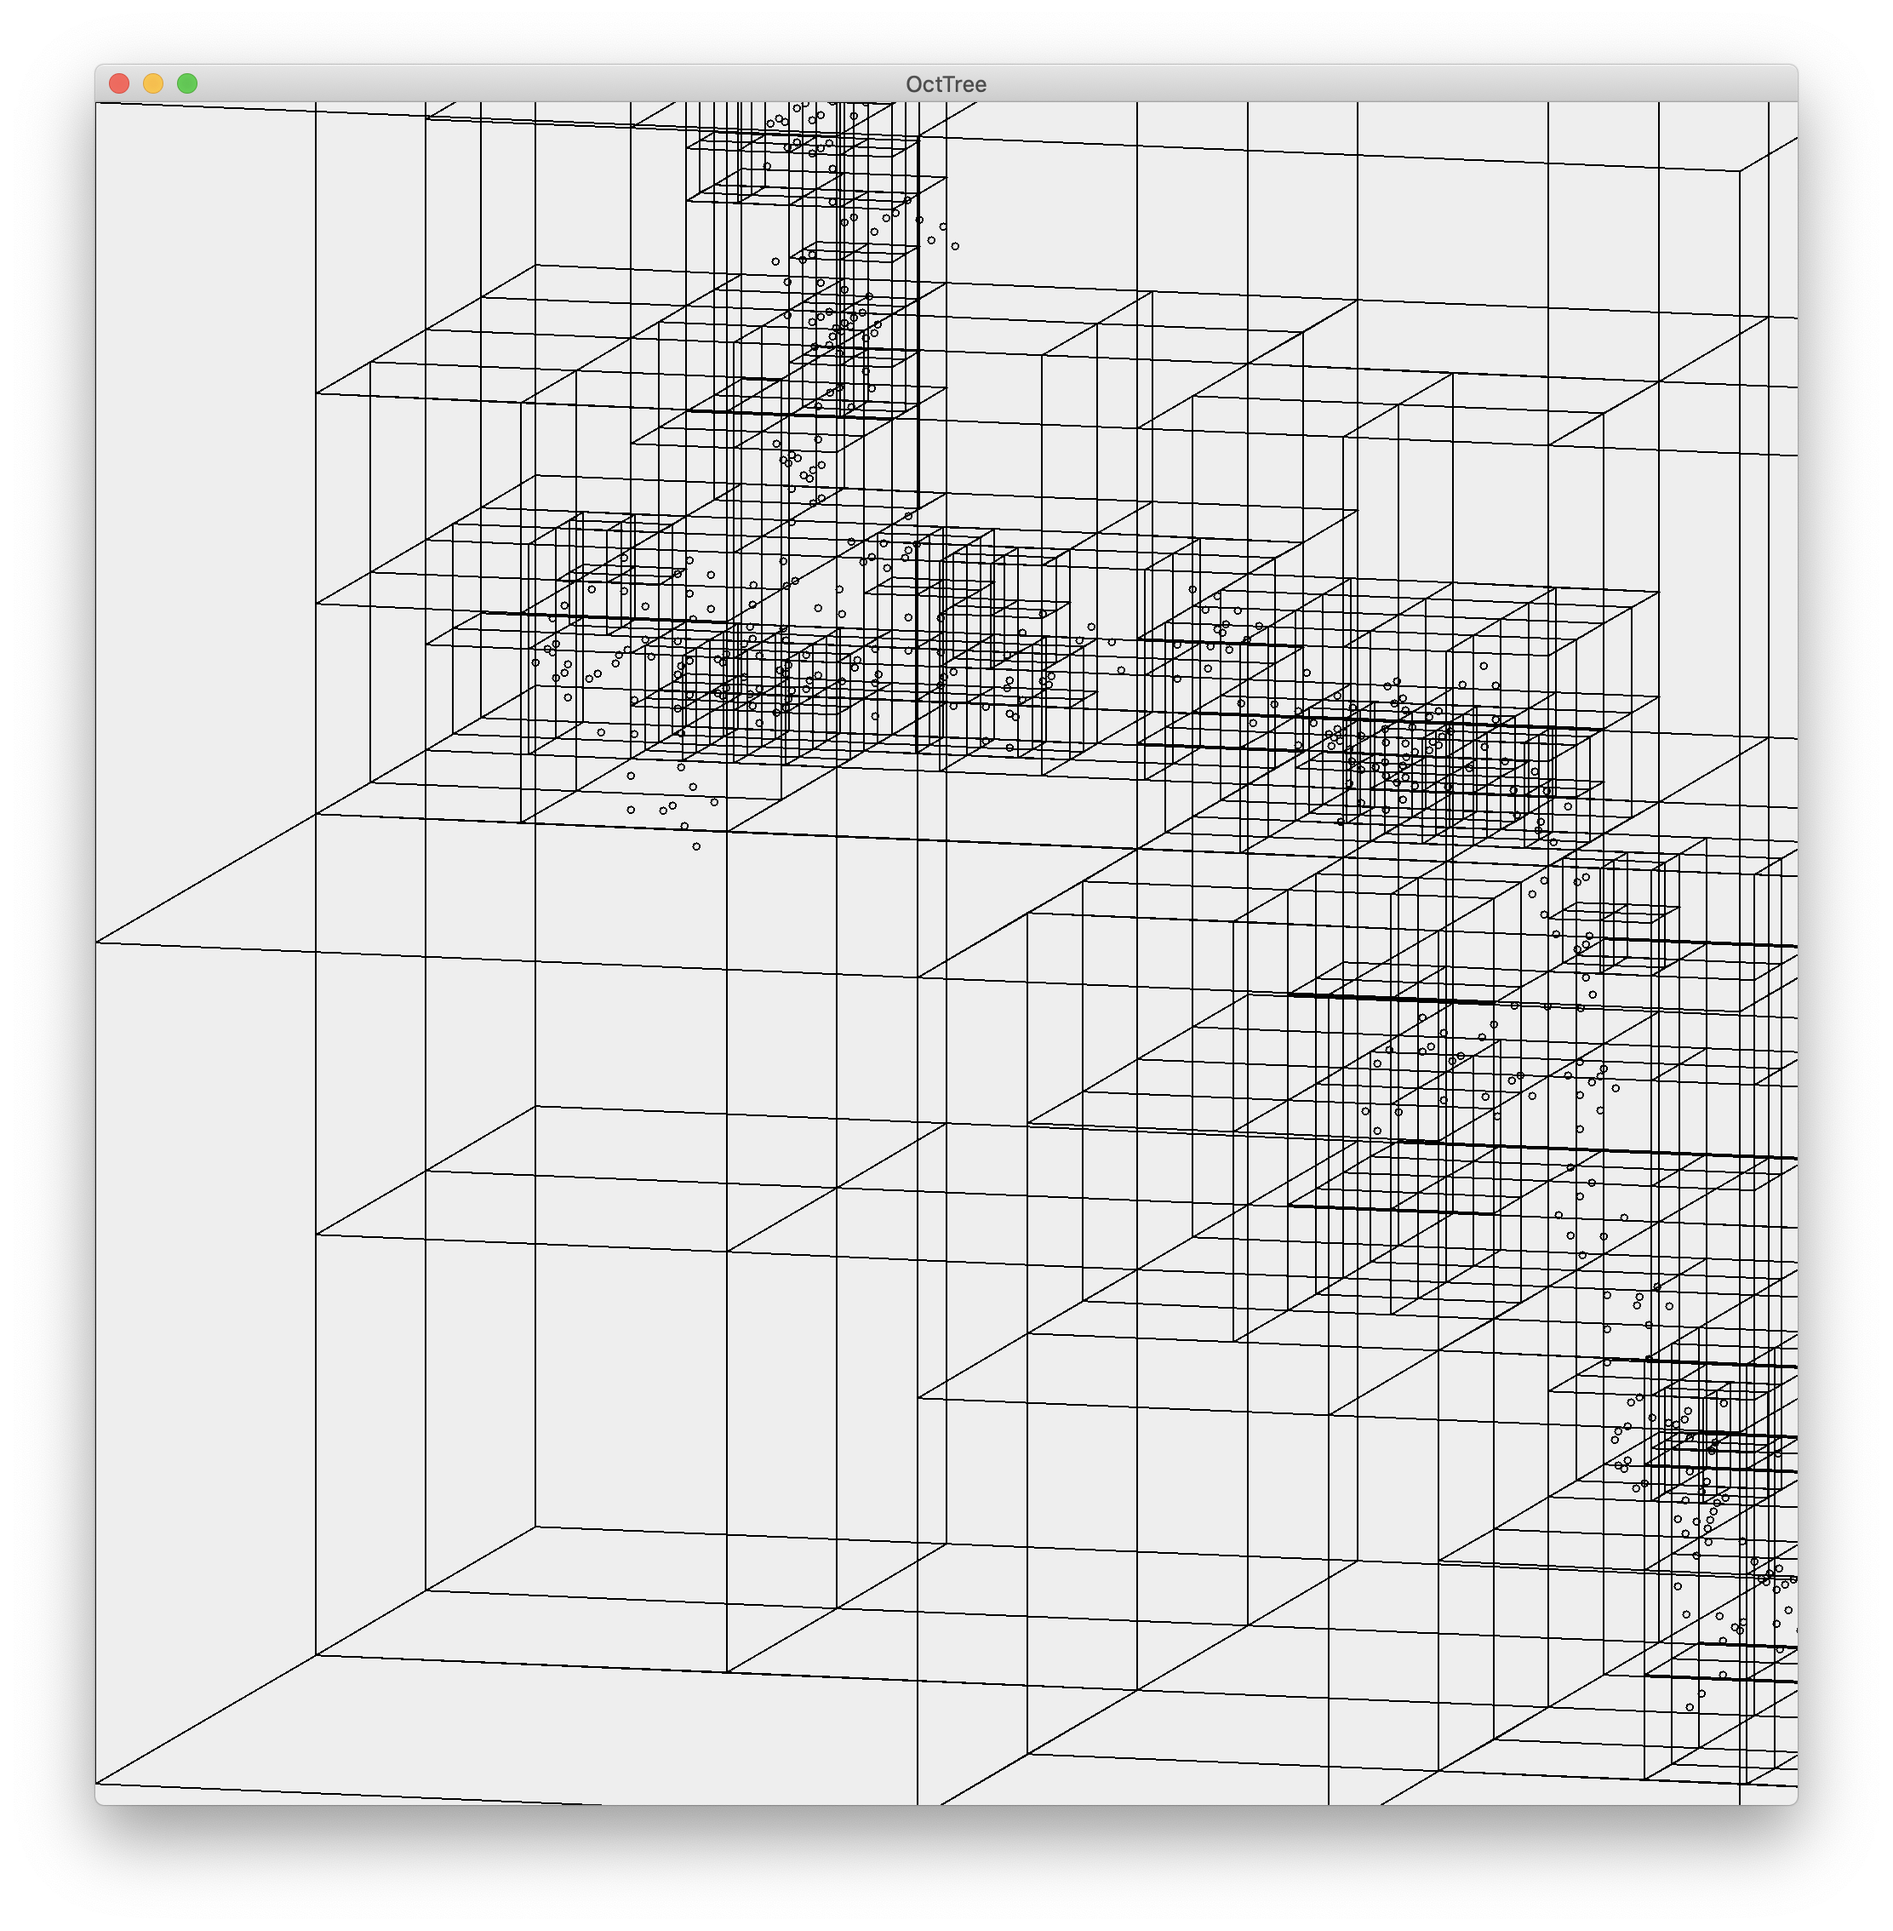
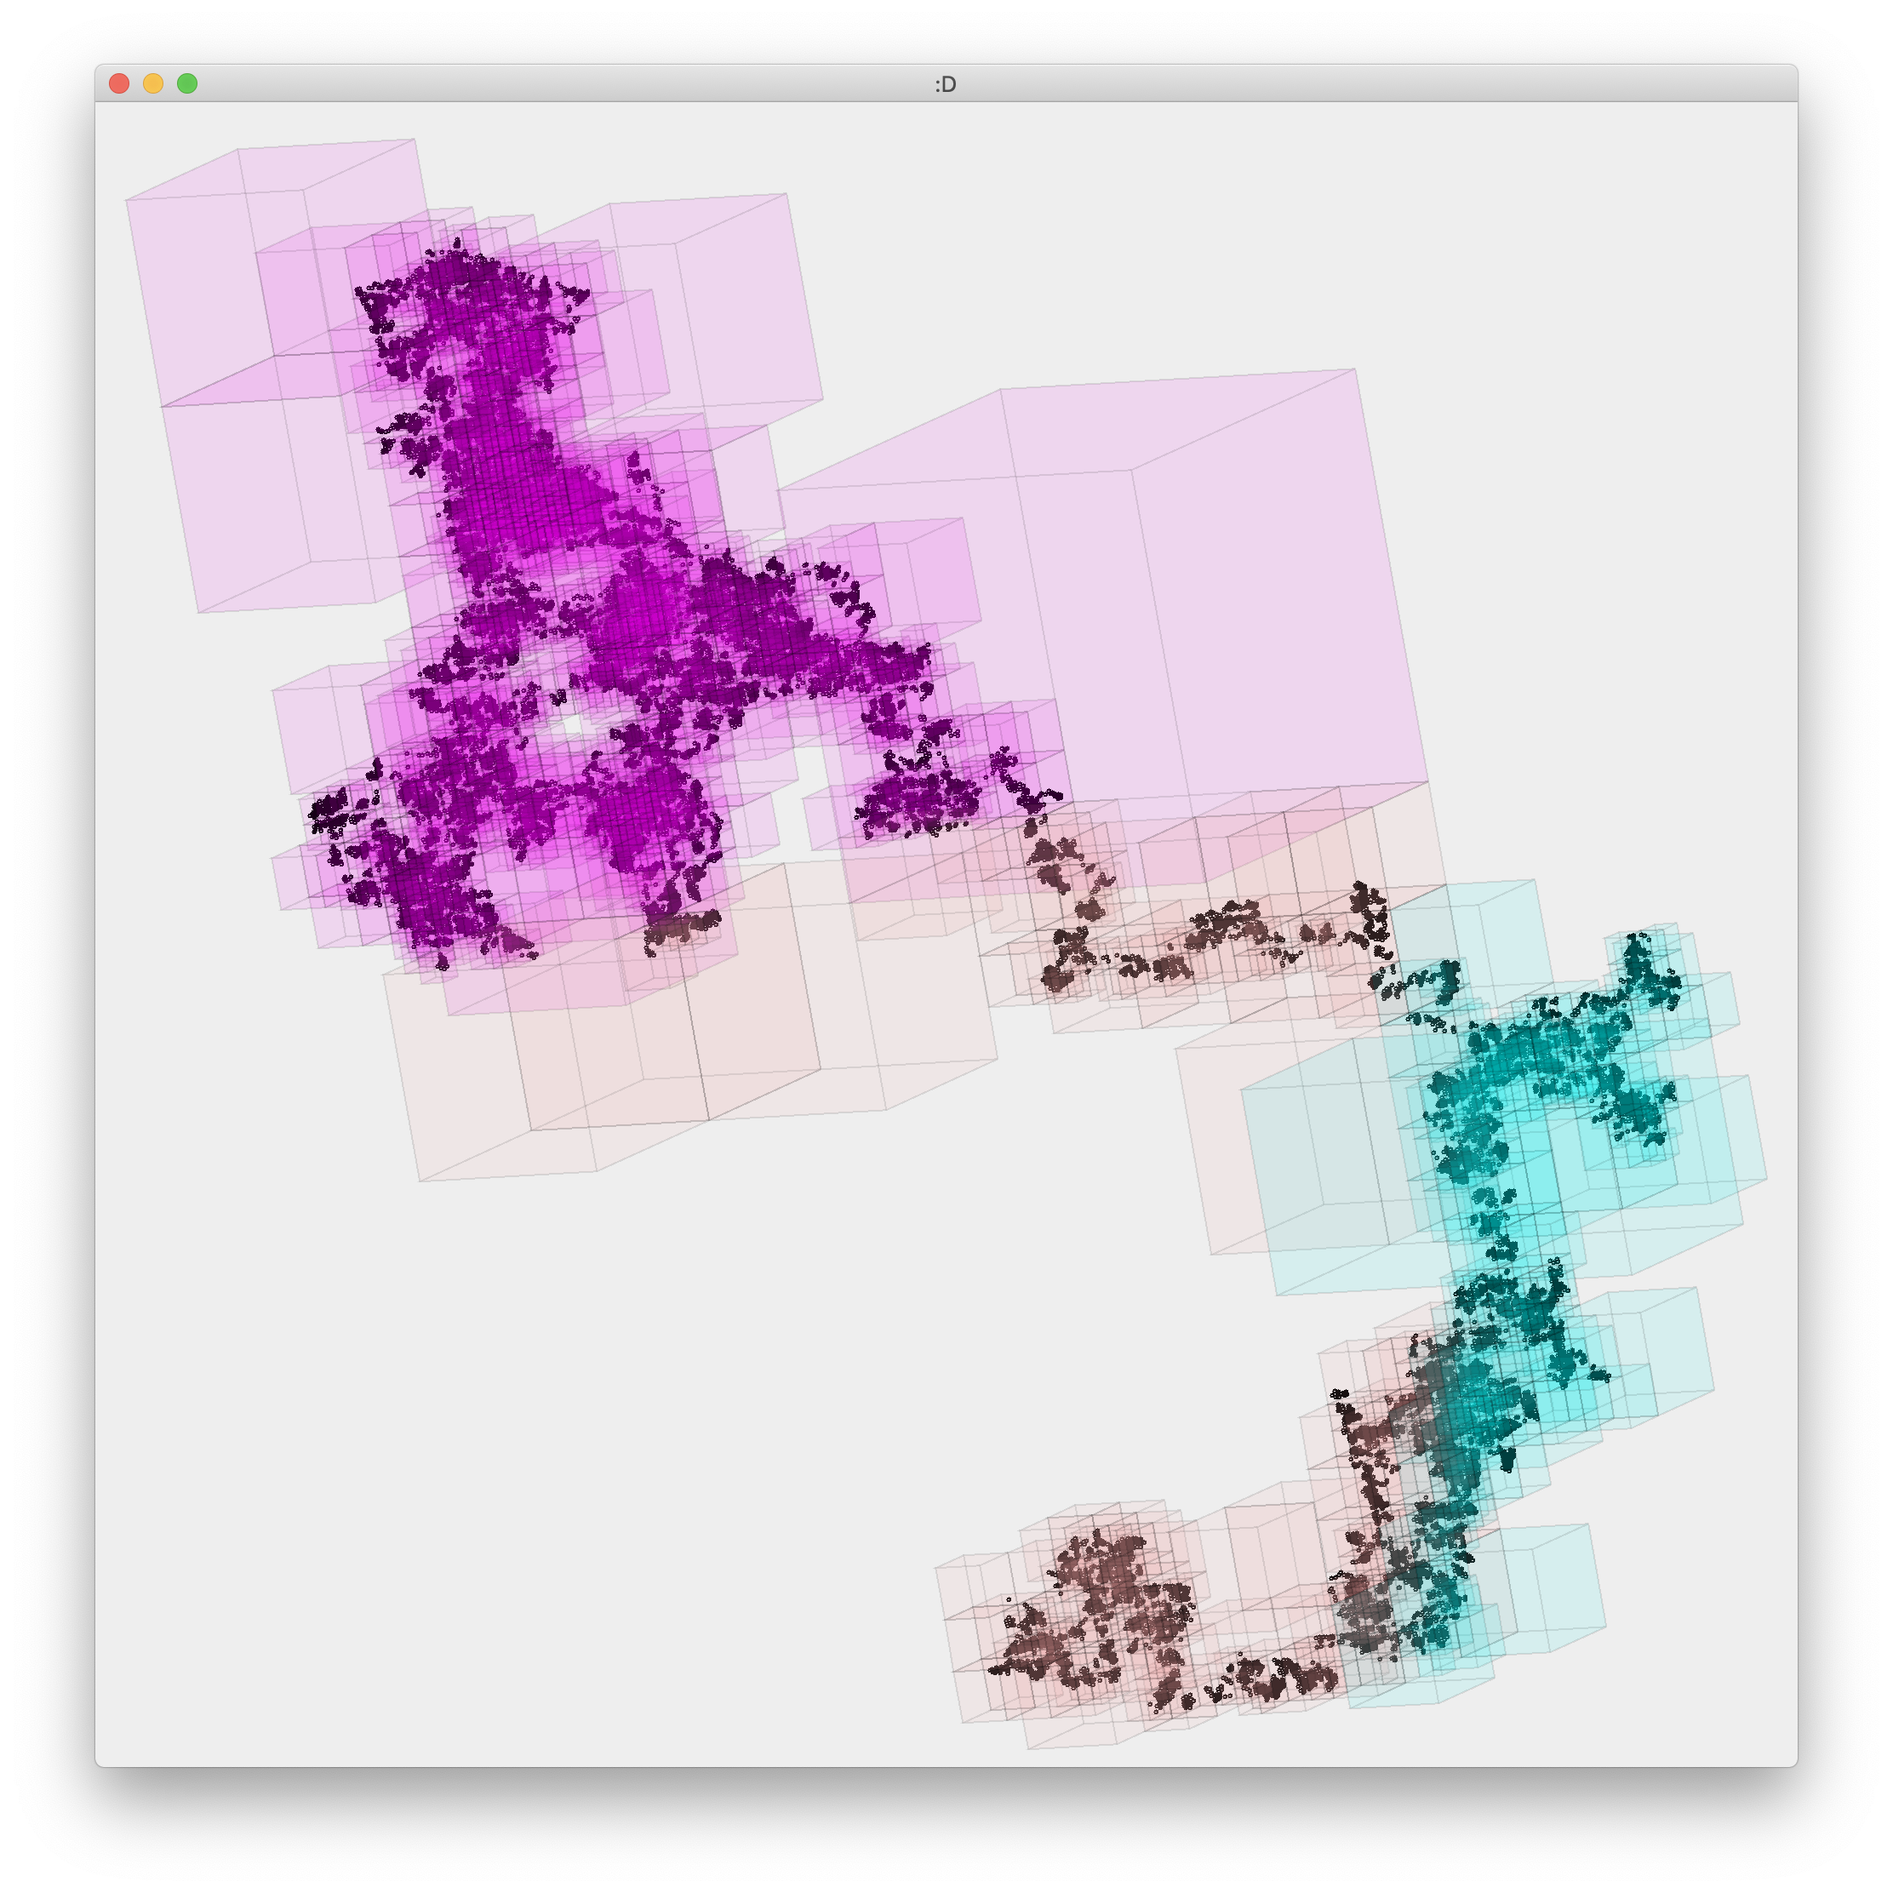
final submission

diff --git a/spatial/OctTreeMain.java b/spatial/OctTreeMain.java
@@ -3,7 +3,6 @@ package spatial;
 import java.util.Arrays;
 import java.util.Collection;
 import java.util.Random;
-import java.awt.geom.Line2D;
 import java.util.stream.Collectors;
 import java.awt.AlphaComposite;
 import java.awt.Graphics;
@@ -12,6 +11,7 @@ import java.awt.geom.Ellipse2D;
 import javax.swing.JFrame;
 import javax.swing.JPanel;
 import java.awt.geom.Path2D;
+import java.awt.Color;
 import java.awt.event.KeyListener;
 import java.awt.event.KeyEvent;
 
@@ -146,23 +146,29 @@ class OctTreeMain {
                                 G.draw(new Ellipse2D.Double(x[0][0] + w / 2, x[1][0] + h / 2, e.getR(), e.getR()));
                             });
                 // octants
-                G.setComposite(AlphaComposite.getInstance(AlphaComposite.SRC_OVER, 0.015f));
+                G.setComposite(AlphaComposite.getInstance(AlphaComposite.SRC_OVER, 0.05f));
+                Color[] colors = new Color[] { Color.RED, Color.ORANGE, Color.YELLOW, Color.GREEN, Color.CYAN,
+                        Color.BLUE, Color.PINK, Color.MAGENTA };
                 if (drawOctants)
                     tree.traverse().parallel().forEach(e -> {
-                        Path2D.Double path = new Path2D.Double();
-                        for (Point3D[] pts : e.bounds().facePaths()) {
-                            double[][] p = new double[3][1];
-                            mmult(P, pts[0].homogenize(), p);
-                            path.moveTo(p[0][0] + w / 2, p[1][0] + h / 2);
-                            for (int i = 1; i < pts.length; i++) {
-                                mclr(p);
-                                mmult(P, pts[i].homogenize(), p);
-                                path.lineTo(p[0][0] + w / 2, p[1][0] + h / 2);
+                        if (e.elements().size() > 0 || drawEmptyOctants) {
+                            Path2D.Double path = new Path2D.Double();
+                            for (Point3D[] pts : e.bounds().facePaths()) {
+                                double[][] p = new double[3][1];
+                                mmult(P, pts[0].homogenize(), p);
+                                path.moveTo(p[0][0] + w / 2, p[1][0] + h / 2);
+                                for (int i = 1; i < pts.length; i++) {
+                                    mclr(p);
+                                    mmult(P, pts[i].homogenize(), p);
+                                    path.lineTo(p[0][0] + w / 2, p[1][0] + h / 2);
+                                }
+                                path.closePath();
+                                G.setColor(colors[e.bounds().getCenter().getOctant()]);
+                                G.fill(path);
+                                G.setColor(Color.BLACK);
+                                G.draw(path);
+                                path.reset();
                             }
-                            path.closePath();
-                            G.fill(path);
-                            G.draw(path);
-                            path.reset();
                         }
                     });
             }

diff --git a/spatial/Sphere.java b/spatial/Sphere.java
@@ -5,7 +5,7 @@ public class Sphere implements Shape3D {
     public double x;
     public double y;
     public double z;
-    public double r;
+    private double r;
     private Box bounds;
 
     public Sphere(double x, double y, double z, double r) {
@@ -17,10 +17,14 @@ public class Sphere implements Shape3D {
         this.bounds = new Box(this.x, this.y, this.z, d, d, d);
     }
 
-    public void updateRadius(double radiusUpdate) {
-        this.r = radiusUpdate;
+    public void setR(double r) {
+        this.r = r;
         double d = 2 * this.r;
-        this.bounds = new Box(this.x, this.y, this.z, d, d, d);
+        this.bounds = new Box(x, y, z, d, d, d);
+    }
+
+    public double getR() {
+        return r;
     }
 
     @Override
@@ -30,7 +34,7 @@ public class Sphere implements Shape3D {
 
     @Override
     public Point3D getPoint() {
-        return new Point3D(this.x, this.y, this.z);
+        return new Point3D(x, y, z);
     }
 
 }

diff --git a/spatial/Point3D.java b/spatial/Point3D.java
@@ -15,6 +15,27 @@ public class Point3D {
         return new double[][] { { x }, { y }, { z }, { 1 } };
     }
 
+    public int getOctant() {
+        /**/ if (x > 0 && y > 0 && z > 0)
+            return 0;
+        else if (x <= 0 && y > 0 && z > 0)
+            return 1;
+        else if (x > 0 && y <= 0 && z > 0)
+            return 2;
+        else if (x <= 0 && y <= 0 && z > 0)
+            return 3;
+        else if (x > 0 && y > 0 && z <= 0)
+            return 4;
+        else if (x <= 0 && y > 0 && z <= 0)
+            return 5;
+        else if (x > 0 && y <= 0 && z <= 0)
+            return 6;
+        else if (x <= 0 && y <= 0 && z <= 0)
+            return 7;
+        else
+            return -1;
+    }
+
     @Override
     public String toString() {
         return String.format("%s[%f,%f,%f]", this.getClass().getName(), x, y, z);

diff --git a/spatial/Box.java b/spatial/Box.java
@@ -129,6 +129,10 @@ public class Box implements Shape3D {
         return new Point3D(x, y, z);
     }
 
+    public Point3D getCenter() {
+        return new Point3D(getMaxX() / 2, getMaxY() / 2, getMaxZ() / 2);
+    }
+
     @Override
     public String toString() {
         return String.format("%s[%f,%f,%f,%f,%f,%f]", this.getClass().getName(), this.x, this.y, this.z, this.w, this.h,

diff --git a/spatial/Shape3D.java b/spatial/Shape3D.java
@@ -2,5 +2,6 @@ package spatial;
 
 public interface Shape3D {
     public Box getBounds();
+
     public Point3D getPoint();
 }

diff --git a/README.md b/README.md
@@ -1,6 +1,29 @@
 # SpaceDS
 
-spatial data structures
+trying out some spatial data structures with a 3D engine...
+
+## OctTree
+
+![octtree](octtree.png "octtree")
+
+Key Commands:
+|key|action|
+|-|-|
+|w/s|up/down|
+|a/d|left/right|
+|q/e|in/out|
+|i/k|yaw|
+|j/l|pitch|
+|u/o|roll|
+|z/x|zoom|
+|c|reset view|
+|v|toggle octants|
+|b|toggle octants with points|
+|n|toggle points|
+|m|re-initialize random walk|
 
 
-Arcade 41
+---
+
+
+Arcade41
